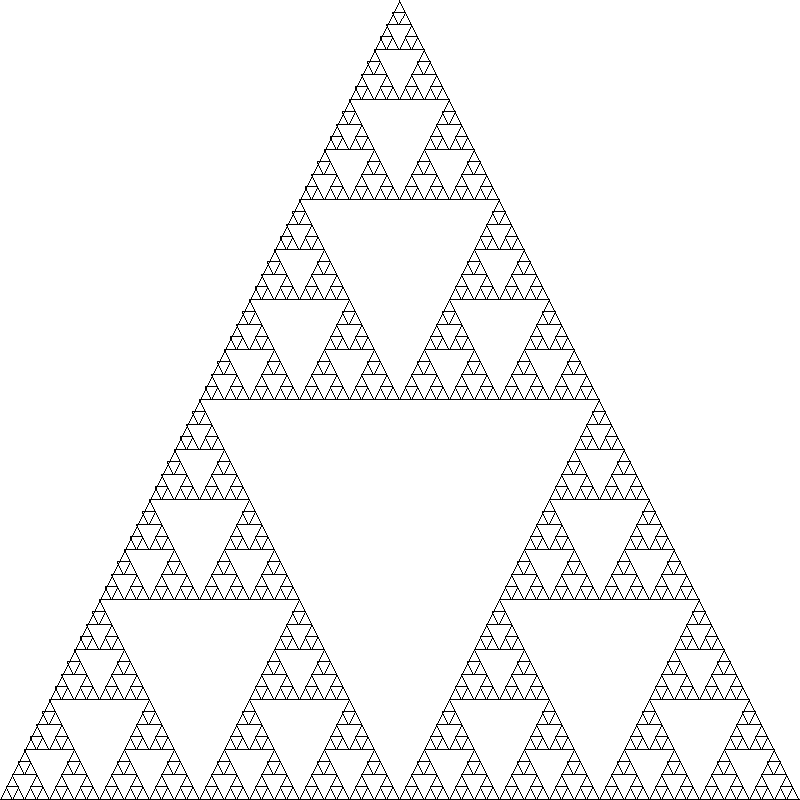
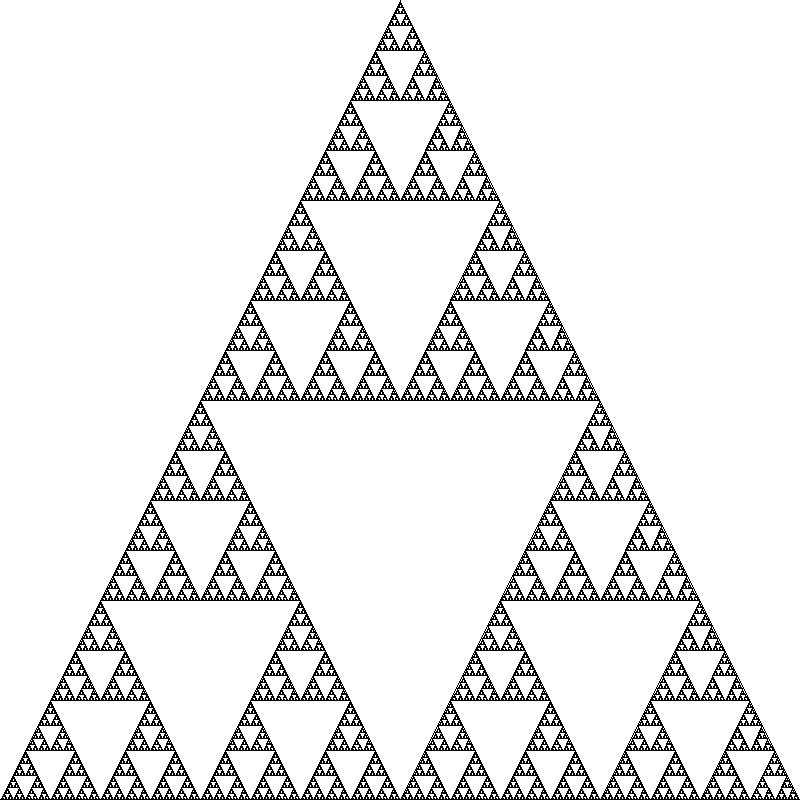
looks better

Changed region(s): [[0.0, 0.0, 1.0, 1.0]]

diff --git a/src/lib.rs b/src/lib.rs
@@ -46,16 +46,11 @@ fn draw_vec(img: &mut ImageBuffer<Luma<u8>, Vec<u8>>, vec: Vec<Point<i32>>) {
 }
 
 fn mid(start: Point<i32>, end: Point<i32>) -> Point<i32> {
-    let (x1, y1) = start;
-    let (x2, y2) = end;
-    let mid_x = (x2 + x1) / 2;
-    let mid_y = (y2 + y1) / 2;
-    (mid_x, mid_y)
+    // Draw the line between the two points and take the middle one. This ensures the mid-point
+    // is actually part of the drawn line.
+    let line = make_line(start, end);
+    line.get(line.len()/2).unwrap().clone()
 }
-
-// An upside down equilateral triangle, points are top-left, top-right, bottom
-struct Triangle (i32, i32, i32);
-
 
 pub fn draw_image(size: u32) -> ImageBuffer<Luma<u8>, Vec<u8>> {
     let black_point = image::Luma([0u8]);
@@ -80,7 +75,7 @@ pub fn draw_image(size: u32) -> ImageBuffer<Luma<u8>, Vec<u8>> {
     draw_vec(&mut img, line2);
     draw_vec(&mut img, line3);
 
-    draw_sierpinski(&mut img, 6, top, bottom_left, bottom_right);
+    draw_sierpinski(&mut img, 10, top, bottom_left, bottom_right);
 
     img
 }
